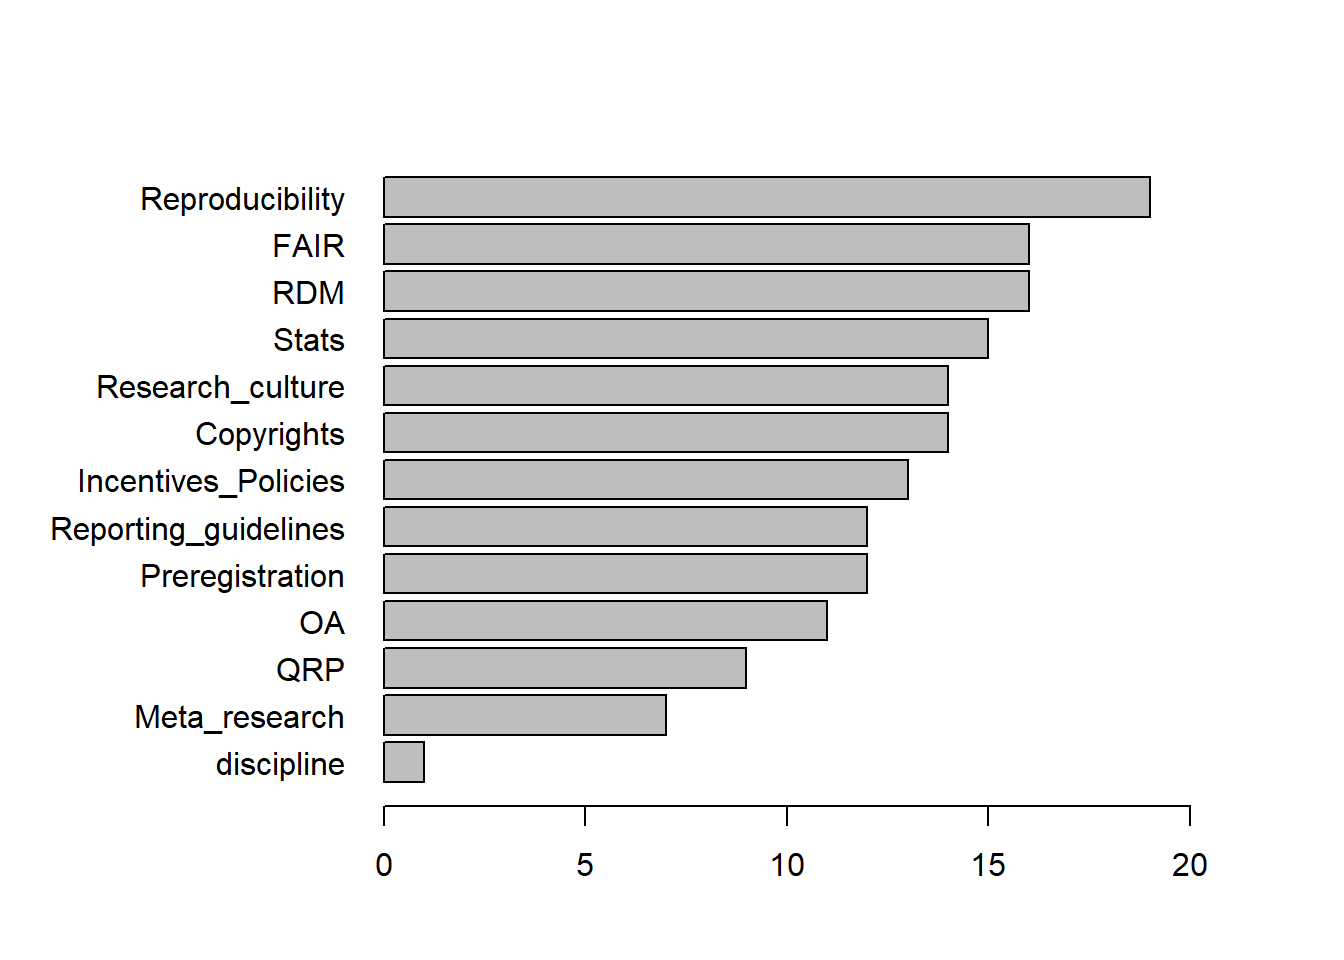
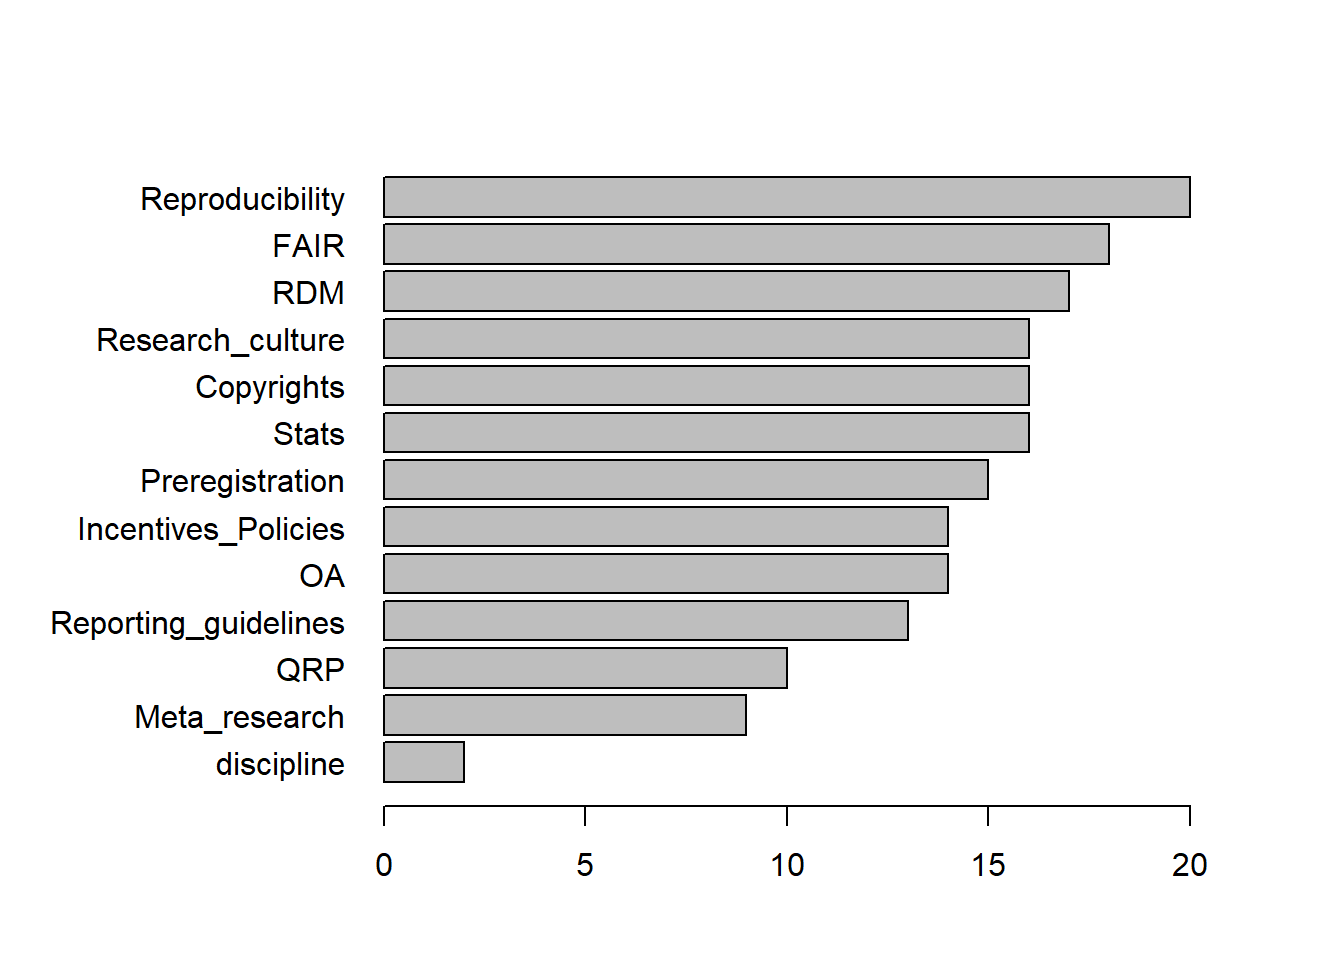
new data 03.11.

Changed region(s): [[0.0312, 0.3438, 0.25, 0.6875], [0.4688, 0.1875, 0.9062, 0.7812], [0.3125, 0.75, 0.3438, 0.8125]]

diff --git a/OSC survery results.html b/OSC survery results.html
@@ -59,7 +59,7 @@ ul.task-list{list-style: none;}
 <div class="cell">
 
 </div>
-<p>Total number of participant in the OSC survey: <strong>26</strong></p>
+<p>Total number of participant in the OSC survey: <strong>30</strong></p>
 </section>
 <section id="survey-resuts" class="level2">
 <h2 class="anchored" data-anchor-id="survey-resuts">Survey Resuts</h2>
@@ -71,7 +71,7 @@ ul.task-list{list-style: none;}
 <div class="cell-output cell-output-stdout">
 <pre><code>
  No Yes 
- 13  13 </code></pre>
+ 17  13 </code></pre>
 </div>
 </div>
 </section>
@@ -80,8 +80,8 @@ ul.task-list{list-style: none;}
 <div class="cell">
 <div class="cell-output cell-output-stdout">
 <pre><code>
-Germany     LMU  Munich 
-      4      20       2 </code></pre>
+Germany     LMU  Munich   World 
+      4      22       3       1 </code></pre>
 </div>
 </div>
 </section>
@@ -90,18 +90,20 @@ Germany     LMU  Munich
 <div class="cell">
 <div class="cell-output cell-output-stdout">
 <pre><code>
+                                                           
+                                                         1 
 Art, humanities, history, linguistics, and culture science 
                                                          3 
                            Biology, Chemistry, Geosciences 
-                                                         1 
+                                                         2 
                    Law, Economics, Business Administration 
                                                          2 
                     Math, Statistics, Informatics, Physics 
-                                                         3 
+                                                         4 
                              Medicine, Veterinary medicine 
                                                          4 
          Social sciences, Psychology, educational sciences 
-                                                        13 </code></pre>
+                                                        14 </code></pre>
 </div>
 </div>
 </section>
@@ -111,7 +113,7 @@ Art, humanities, history, linguistics, and culture science
 <div class="cell-output cell-output-stdout">
 <pre><code>
          MSc        other          PhD           PI      Postdoc Supportstaff 
-           1            2            8            9            4            2 </code></pre>
+           2            2            9            9            4            4 </code></pre>
 </div>
 <div class="cell-output cell-output-stdout">
 <pre><code>
@@ -143,7 +145,9 @@ Doing applied research, evaluatoins and policy briefs  at a federal ministry
 <h4 class="anchored" data-anchor-id="other-activities">Other activities</h4>
 <div class="cell">
 <div class="cell-output cell-output-stdout">
-<pre><code>&lt; table of extent 0 &gt;</code></pre>
+<pre><code>
+Networking with and interface to relevant institutions outside LMU and knowledge transfer into LMU;  
+                                                                                                   1 </code></pre>
 </div>
 </div>
 </section>
@@ -161,11 +165,15 @@ Doing applied research, evaluatoins and policy briefs  at a federal ministry
 <div class="cell">
 <div class="cell-output cell-output-stdout">
 <pre><code>
-clinical studies in medicine 
-                           1 </code></pre>
+                                                                                          clinical studies in medicine 
+                                                                                                                     1 
+It would be important to actively involve non-empirical departments and offer low-threshold information and networking 
+                                                                                                                     1 </code></pre>
 </div>
 <div class="cell-output cell-output-stdout">
-<pre><code>&lt; table of extent 0 &gt;</code></pre>
+<pre><code>
+communication of best practices from different disciplineswithin LMU 
+                                                                   1 </code></pre>
 </div>
 </div>
 </section>
@@ -211,7 +219,8 @@ clinical studies in medicine
 <p>‘If you have any other suggestions, please indicate them here:’</p>
 <div class="cell">
 <div class="cell-output cell-output-stdout">
-<pre><code>[1] "Thanks a lot for the efforts. The last 2.5 years where hard to stay active and interact with the group. I hope this becomes more easy again."</code></pre>
+<pre><code>[1] "Thanks a lot for the efforts. The last 2.5 years where hard to stay active and interact with the group. I hope this becomes more easy again."                                              
+[2] "I'm helping put out the AI@LMU newsletter (https://www.ai-news.lmu.de/). If you ever do something that (however loosely) relates to AI, I'd love to feature it there! Just send me a mail."</code></pre>
 </div>
 </div>
 </section>
